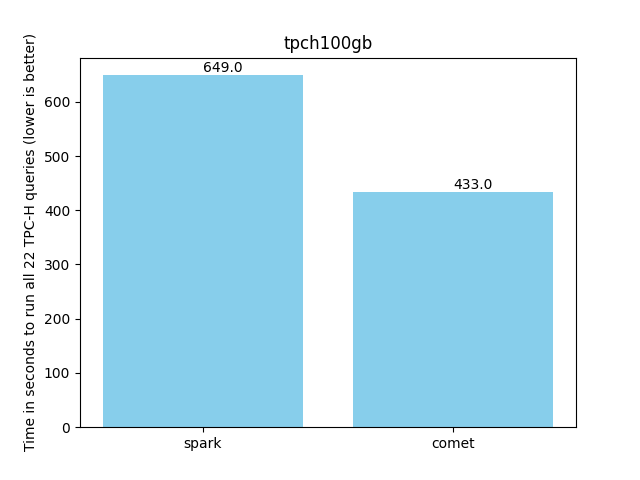
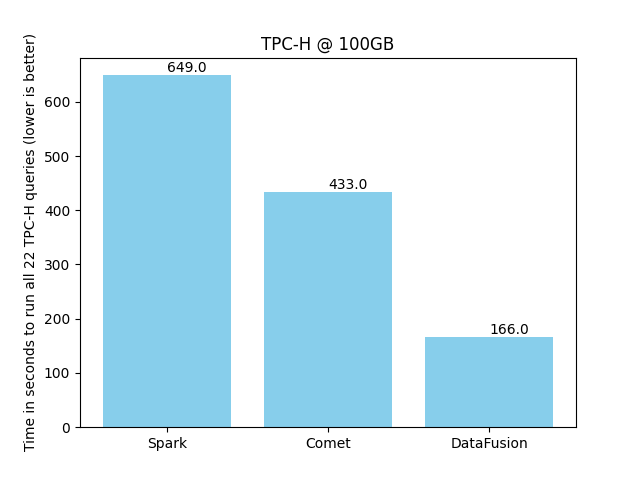
update docs

diff --git a/README.md b/README.md
@@ -34,13 +34,14 @@ The following chart shows the time it takes to run the 22 TPC-H queries against 
 using a single executor with 8 cores. See the [Comet Benchmarking Guide](https://datafusion.apache.org/comet/contributor-guide/benchmarking.html)
 for details of the environment used for these benchmarks.
 
-When using Comet, the overall run time is reduced from 649 seconds to 440 seconds, a 1.5x speedup.
+When using Comet, the overall run time is reduced from 649 seconds to 433 seconds, a 1.5x speedup, with some queries
+showing a 2x-3x speedup.
 
 Running the same queries with DataFusion standalone (without Spark) using the same number of cores results in a 3.9x 
 speedup compared to Spark.
 
 Comet is not yet achieving full DataFusion speeds in all cases, but with future work we aim to provide a 2x-4x speedup 
-for many use cases.
+for a broader set of queries.
 
 ![](docs/source/_static/images/tpch_allqueries.png)
 
